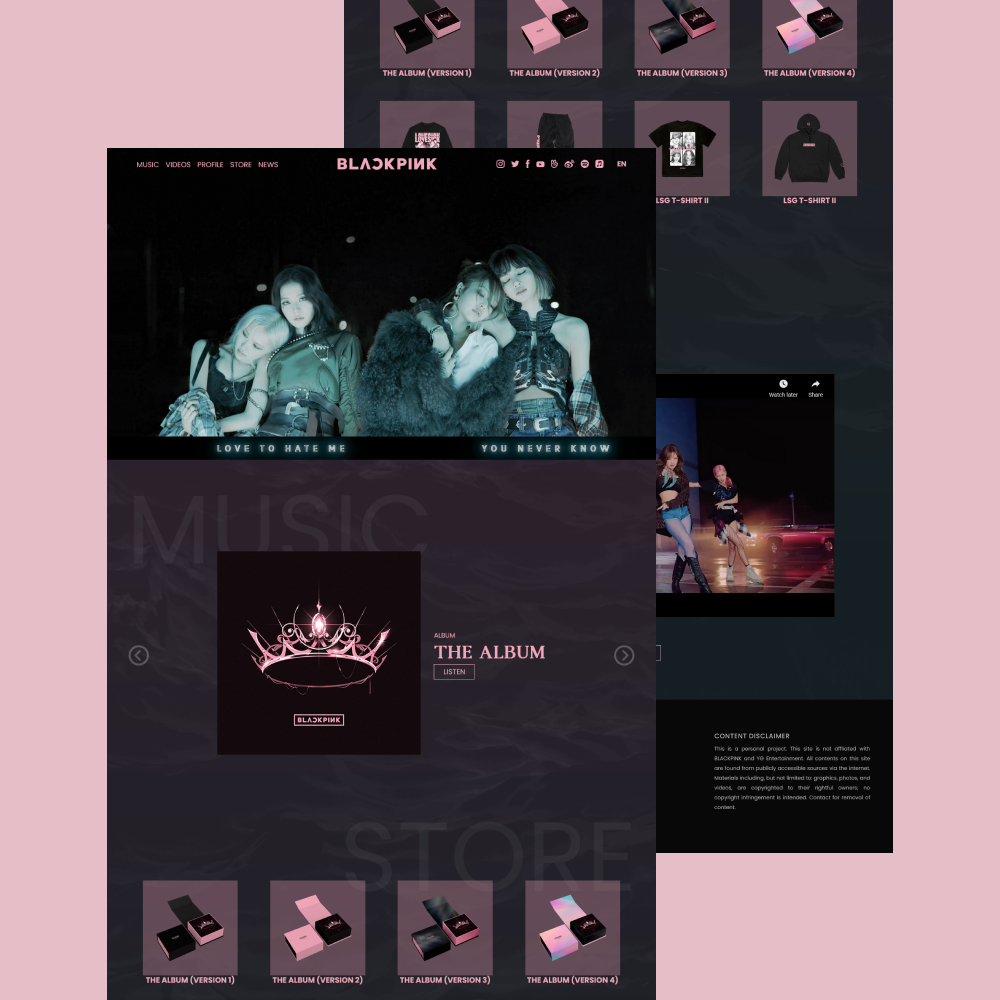
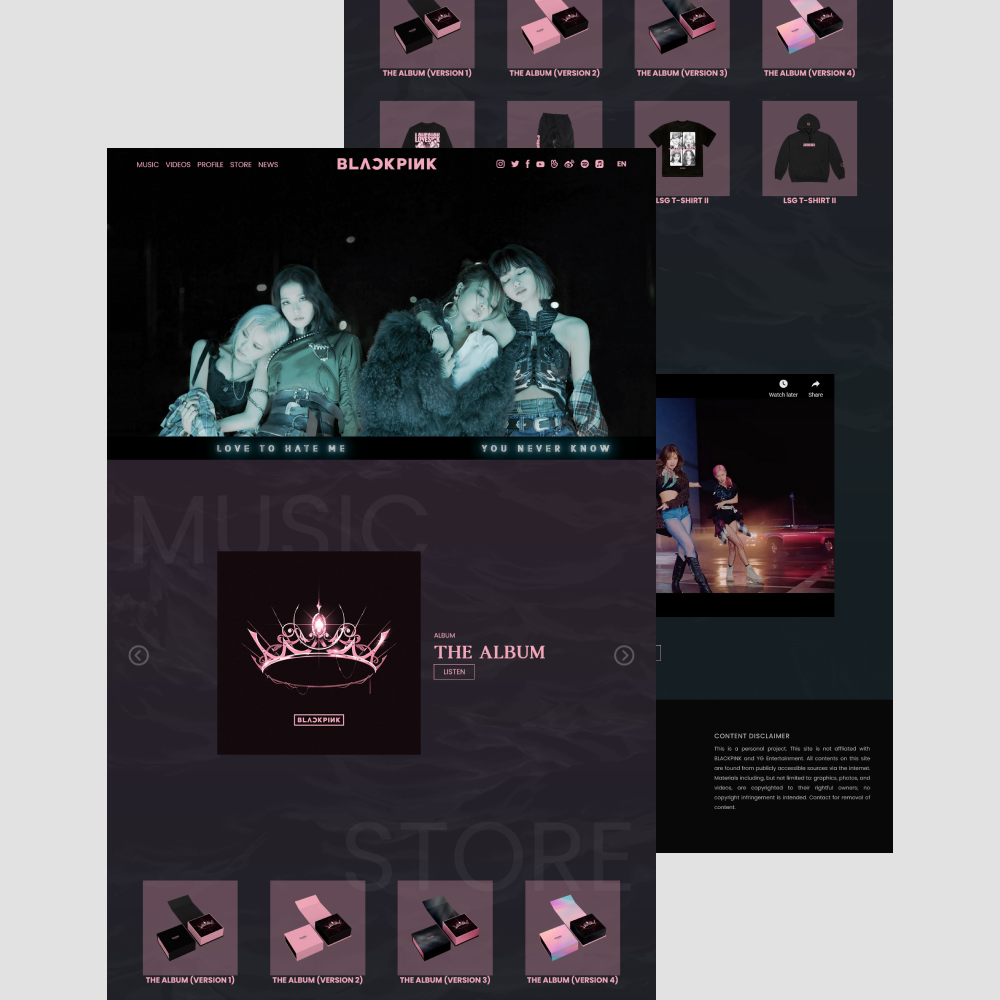
modify cards style.css

Changed region(s): [[0.651, 0.0, 1.0, 1.0], [0.0, 0.0, 0.341, 1.0]]

diff --git a/style.css b/style.css
@@ -20,12 +20,10 @@ body {
     display: flex;
     justify-content: center;
     align-items: center;
-
 }
 
 .name {
     fill: #3B4C784D;
-
 }
 
 .blobs path:nth-child(1) {
@@ -37,7 +35,6 @@ body {
     position: absolute;
 }
 
-
 .blobs path:nth-child(3) {
     transform: translate(160px, -30px) rotate(15deg) scale(1.4);
 
@@ -45,8 +42,6 @@ body {
 
 .blobs path:nth-child(4) {
     transform: translate(280px, -16px) rotate(50deg) scale(1.35);
-    /* animation: counter-clockwise1 6s linear infinite reverse; */
-
 }
 
 .blobs path:nth-child(5) {
@@ -85,11 +80,11 @@ body {
 
 h1 {
     /* colors */
-    color: #5E6473;
+    color: #6F7585;
     /* typography */
     letter-spacing: 0.05em;
     font-size: 2.369rem;
-    text-transform: uppercase;
+    text-transform: capitalize;
     text-align: center;
     padding: 15em 0 1.3em 0;
 }
@@ -99,24 +94,19 @@ h1 {
     place-content: center;
     grid-template-columns: repeat(auto-fit, minmax(250px, 1fr));
     gap: 2em;
-
 }
 
 .project-card {
     display: flex;
     flex-flow: column nowrap;
     align-items: center;
-    background: #1c1c22;
-    border-radius: 1.55em;
-
-    box-shadow:
-        12.5px 12.5px 10px rgba(0, 0, 0, 0.1),
-        100px 100px 80px rgba(0, 0, 0, 0.2);
-}
-
-.project-card-container {
-    border-radius: 1.55em;
+    background: #26262e;
+    border-radius: 1em;
     overflow: hidden;
+    box-shadow:
+        6.7px 6.7px 5.3px rgba(40, 40, 48, 0.04),
+        22.3px 22.3px 17.9px rgba(40, 40, 48, 0.06),
+        100px 100px 80px rgba(40, 40, 48, 0.1);
 }
 
 @media (min-width:1000px) {
@@ -128,18 +118,26 @@ h1 {
 .project-img {
     display: block;
     max-width: 100%;
-    border-radius: 1.55em;
+    border-bottom-left-radius: 2em;
+    border-bottom-right-radius: 2em;
 }
 
 a {
     text-decoration: none;
-
 }
 
 .project-link {
+    color: #699BF7;
+    border: 2px solid #699BF7;
     /* typography */
     line-height: 6;
     border-radius: 1.5em;
+}
+
+.project-link:hover {
+    color: #1F2126;
+    background-color: #699BF7;
+    transition: 0.2s ease-in;
 }
 
 .project-code {
@@ -151,62 +149,6 @@ a {
     margin-right: 1em;
     /* typography */
     white-space: nowrap;
-}
-
-.project-tfc {
-    color: #8FC68D;
-    border: 2px solid #8FC68D;
-}
-
-.project-tfc:hover {
-    /* color */
-    color: #1c1c22;
-    border: 2px solid #8FC68D;
-    background-color: #8FC68D;
-    /* transition */
-    transition: 0.2s ease-in;
-}
-
-.project-music {
-    color: #E6BEC8;
-    border: 2px solid #E6BEC8;
-}
-
-.project-music:hover {
-    /* color */
-    color: #1c1c22;
-    border: 2px solid #E6BEC8;
-    background-color: #E6BEC8;
-    /* transition */
-    transition: 0.2s ease-in;
-}
-
-.project-sunnyside {
-    color: #E2E2E2;
-    border: 2px solid #E2E2E2;
-}
-
-.project-sunnyside:hover {
-    /* color */
-    color: #1c1c22;
-    border: 2px solid #E2E2E2;
-    background-color: #E2E2E2;
-    /* transition */
-    transition: 0.2s ease-in;
-}
-
-.project-price {
-    color: #E6EFF6;
-    border: 2px solid #E6EFF6;
-}
-
-.project-price:hover {
-    /* color */
-    color: #1c1c22;
-    border: 2px solid #E6EFF6;
-    background-color: #E6EFF6;
-    /* transition */
-    transition: 0.2s ease-in;
 }
 
 footer {

diff --git a/index.html b/index.html
@@ -229,7 +229,7 @@
                         </div>
                     </div>
                     <div class="project-card">
-                        <img class="project-img" src="images/single-price.png" alt="">
+                        <img class="project-img" src="images/price-card.png" alt="">
                         <div class="project-card-container">
                             <div class="project-buttons">
                                 <a class="project-link project-demo project-price"
